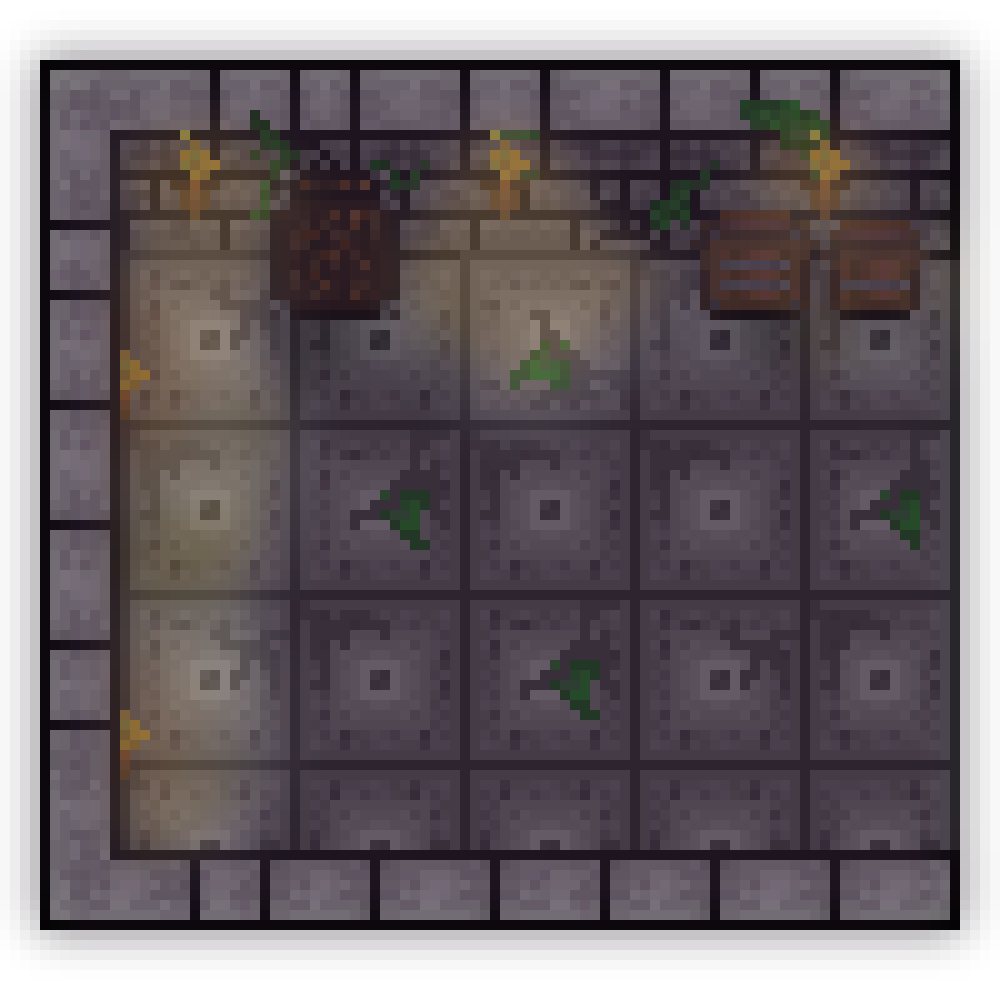
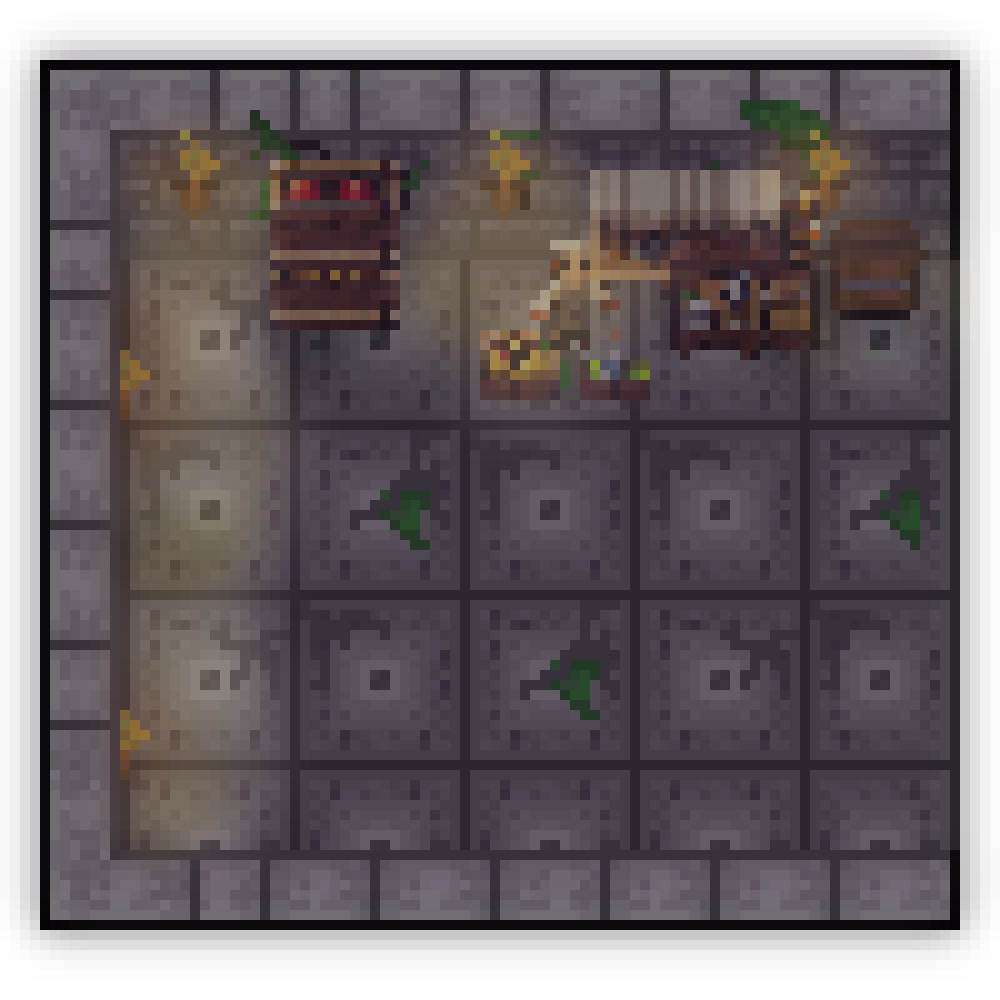
add third map

Changed region(s): [[0.031, 0.062, 0.961, 0.93], [0.93, 0.248, 0.961, 0.279], [0.744, 0.062, 0.775, 0.093]]

diff --git a/Visual/Maps/LicthRoom.cs b/Visual/Maps/LicthRoom.cs
@@ -2,14 +2,13 @@ using System.Collections.Generic;
 using System.Drawing;
 using System.Windows.Forms;
 
-public class FelixRoom : Map
-{
-    public override Boss Boss { get; set; } = new FelixTheToad(960, 540);
+public class LitchRoom : Map {
+    //  public override Boss Boss { get; set; } = new FelixTheToad(960, 540);
     public override List<GameObject> GameObjects { get; set; } = new();
 
-    public FelixRoom(PictureBox pb)
+    public LitchRoom(PictureBox pb)
     {
-        this.image = Resources.Maps[2];
+        this.image = Resources.Maps[6];
         this.PlayerSpawn = new PointF(
             Screen.PrimaryScreen.Bounds.Width / 2,
             0.9f * Screen.PrimaryScreen.Bounds.Height
@@ -17,33 +16,25 @@ public class FelixRoom : Map
         InitializeMapObjects(pb);
     }
 
-    public override void InitializeMapObjects(PictureBox pb)
+     public override void InitializeMapObjects(PictureBox pb)
     {
         float width = this.image.Width;
         float height = this.image.Height;
         float x = Screen.PrimaryScreen.Bounds.Width / 2;
         float y = Screen.PrimaryScreen.Bounds.Height / 2;
 
-        var w1 = new Wall("Direita", x + 0.965f * width / 2, y, 50, height);
-        var w2 = new Wall("Esquerda", x - 0.965f * width / 2, y, 50, height);
-        var w3 = new Wall("CimaEsquerda", x - 0.568f * width, y - 0.45f * height / 2, width, 50);
-        var w4 = new Wall("CimaDireita", x + 0.568f * width, y - 0.45f * height / 2, width, 50);
-        var w5 = new Wall("Portao", x, y - 447.5f, width, 50);
-        var w6 = new Wall("ParedeEsquedaPortao", 0.865f * x, y - 0.55f * height / 2, 50, 190);
-        var w7 = new Wall("ParedeDireitaPortao", 1.135f * x, y - 0.55f * height / 2, 50, 190);
+        var w1 = new Wall("Direita", x + 0.960f * width / 2, y, 50, height);
+        var w2 = new Wall("Esquerda", x - 0.960f * width / 2, y, 50, height);
+        var w3 = new Wall("CimaEsquerda", x - 0.568f * width, y - 0.55f * height / 2, width, 50);
+      
         var w8 = new Wall("LavaEsquerda", x - 0.87f * width / 2, y - 0.375f * height / 2, 110, 90);
         var w9 = new Wall("LavaDireita", x + 0.87f * width / 2, y - 0.375f * height / 2, 110, 90);
 
         this.GameObjects.Add(w1);
         this.GameObjects.Add(w2);
         this.GameObjects.Add(w3);
-        this.GameObjects.Add(w4);
-        this.GameObjects.Add(w5);
-        this.GameObjects.Add(w6);
-        this.GameObjects.Add(w7);
         this.GameObjects.Add(w8);
         this.GameObjects.Add(w9);
-        this.GameObjects.Add(Boss);
         this.GameObjects.Add(new Coin("Moeda", 900, 700));
     }
 
@@ -52,8 +43,13 @@ public class FelixRoom : Map
         g.DrawImage(
             this.image,
             (pb.Width / 2) - this.image.Width / 2,
-            (pb.Height / 2) - this.image.Height / 2.65f
+            (pb.Height / 2) - this.image.Height / 2
         );
+
+        foreach (var wall in GameObjects)
+        {
+            g.DrawRectangle(Pens.White, wall.Hitbox);
+
+        }
     }
 }
-

diff --git a/Visual/Maps/FirstRoom.cs b/Visual/Maps/FirstRoom.cs
@@ -27,10 +27,10 @@ public class FirstRoom : Map
         var w2 = new Wall("Baixo", x, y + 0.8f * height / 2, width, 100); // parede de baixo
         var w3 = new Wall("Esquerda", x - 0.86f * width / 2, y, 100, height); // parede da esquerda
         var w4 = new Wall("Cima", x, y - 0.65f * height / 2, width, 100); // parede de cima
-        var w5 = new Wall("Barril", x - 0.66f * width / 4, y - 0.49f * height / 2, 129, 90); // barril
-        var v1 = new Wall("BarrilV", x - 0.66f * width / 4, y - 0.45f * height / 2, 90, 90); // barril V ( de pra cima tlgd )
+        var w5 = new Wall("Barril", x - 0.66f * width / 4, y - 0.52f * height / 2, 129, 40); // barril
+        var v1 = new Wall("BarrilV", x + 0.20f * width / 2, y - 0.42f * height / 2, 129, 90); // barril V ( de pra cima tlgd )
         var w6 = new Wall("BarriSS", x + 0.623f * width / 2, y - 0.47f * height / 2, 220, 90); // barriSS
-        var v2 = new Wall("BarriSS V1", x + 0.51f * width / 2, y - 0.45f * height / 2, 90, 90); // barriSS V1 ( de pra baixo tlgd )
+        var v2 = new Wall("BarriSS V1", x + 0.05f * width / 2, y - 0.36f * height / 2, 100, 50); // barriSS V1 ( de pra baixo tlgd )
         var v3 = new Wall("BarriSS V2", x + 0.75f * width / 2, y - 0.45f * height / 2, 70, 90); // barriSS
 
         var i1 = new NextMapInteractable("Indo Ali", 
@@ -38,8 +38,7 @@ public class FirstRoom : Map
             75, 75);
 
         var i2 = new Market("Coé", 
-        PlayerSpawn.X + 100, PlayerSpawn.Y,
-            100, 100);
+        x + 0.32f * width / 2, y - 0.20f * height / 2, 200, 90);
 
         // var market = new Market("Maercadin kkk", 700, 700);
 
@@ -69,5 +68,11 @@ public class FirstRoom : Map
             // if (item is Interactable pog)
                 // g.DrawRectangle(Pens.Gold, item.Hitbox);
         }
+
+        // foreach (var wall in GameObjects)
+        // {
+        //     g.DrawRectangle(Pens.White, wall.Hitbox);
+
+        // }
     }
 }

diff --git a/State/States.cs b/State/States.cs
@@ -218,13 +218,15 @@ public class PlatformState : State
     {
         var random = Random.Shared.Next(0, 2);
         platform = new("Platform", spawns[random].X, spawns[random].Y, 290, 260);
-        if (GameEngine.Current.Player.X > Screen.PrimaryScreen.Bounds.Width/2)
+        if (GameEngine.Current.Player.X > Screen.PrimaryScreen.Bounds.Width / 2)
             platform = new("Platform", spawns[random + 2].X, spawns[random + 2].Y, 290, 260);
         this.durationTime = lifetime + platform.damageInitiationDelay;
     }
 
     public override void Act(Boss boss)
     {
+        int contador = 2;
+
         if (!isActivated)
         {
             creationTime = DateTime.Now;
@@ -242,7 +244,23 @@ public class PlatformState : State
             var random = Random.Shared.Next(0, 2);
             platform = new("Platform", spawns[random].X, spawns[random].Y, 290, 260);
             if (GameEngine.Current.Player.X > Screen.PrimaryScreen.Bounds.Width / 2)
-                
+                platform = new("Platform", spawns[random + 2].X, spawns[random + 2].Y, 290, 260);
+
+            if (random == 0)
+                MapManager.Current.SetBackground(Resources.Maps[2]);
+
+
+            if (random == 1 + contador)
+                MapManager.Current.SetBackground(Resources.Maps[3]);
+
+            if (random == 0 + contador)
+                MapManager.Current.SetBackground(Resources.Maps[4]);
+
+
+            if (random == 1)
+                MapManager.Current.SetBackground(Resources.Maps[5]);
+
+
             GoToNext();
             return;
         }

diff --git a/Resources/Resources.cs b/Resources/Resources.cs
@@ -29,11 +29,16 @@ public static class Resources
             .GetFiles("../../../assets/Sprites/Market/", "*.png")
             .Select(file => Bitmap.FromFile(file) as Bitmap)
             .ToList();
+        Cards = Directory  
+            .GetFiles("../../../assets/Sprites/Card/", "*.png")
+            .Select(file => Bitmap.FromFile(file) as Bitmap)
+            .ToList();
 
     }
 
     public static List<Bitmap> PlayerSprites = new();
     public static List<Bitmap> Maps = new();
+    public static List<Bitmap> Cards = new();
     public static List<Bitmap> Coins = new();
     public static List<Bitmap> Market = new();
 }

diff --git a/Visual/MapManger.cs b/Visual/MapManger.cs
@@ -41,6 +41,14 @@ public static class MapManager
         transitioning = true;
     }
 
+    // public static void SetStateCrrMap()
+    // {
+    //     if ()
+    //     {
+            
+    //     }
+    // }
+
     public static void RenderMapOrFade(Graphics g, PictureBox pb)
     {
         if (!transitioning)
@@ -97,8 +105,9 @@ public static class MapManager
     {
         InitializeMapList();
 
-        // AddMap(new FirstRoom(pb));
+        AddMap(new FirstRoom(pb));
         AddMap(new FelixRoom(pb));
+        AddMap(new LitchRoom(pb));
 
         Current = Maps[0];
         setPlayerSpawn();

diff --git a/GameObjects/Coin.cs b/GameObjects/Coin.cs
@@ -30,7 +30,12 @@ public class Coin : GameObject, IMoveable
     public override void Update()
     {
         Move();
+        VerifyCollisions();
+      
+    }
 
+    public bool VerifyCollisions()
+    {
         var collided = CollisionManager.GetCollisions(this);
         foreach (var other in collided)
         {
@@ -38,8 +43,10 @@ public class Coin : GameObject, IMoveable
             {
                 player.ColectItem();
                 CollisionManager.RemoveGameObject(this);
+                return true;
             }
         }
+        return false;
     }
 
     public void Move()

diff --git a/Visual/Map.cs b/Visual/Map.cs
@@ -8,6 +8,8 @@ public abstract class Map
     public PointF PlayerSpawn { get; set; }
     public virtual Boss Boss { get; set; } = null;
     public abstract List<GameObject> GameObjects { get; set; }
+    public virtual void SetBackground(Image img) {this.image = img;}
+    public virtual void SetBackground(Bitmap img) {this.image = img;}
     protected Image image = null;
     public abstract void InitializeMapObjects(PictureBox pb);
     public abstract void RenderBackground(Graphics g, PictureBox pb);

diff --git a/GameObjects/Player.cs b/GameObjects/Player.cs
@@ -312,7 +312,15 @@ public class Player : GameObject, IMoveable, IAttackable
 
     public void ColectItem()
     {
-        if (isInteractable)
-            this.CoinWallet++;
+        var collided = CollisionManager.GetCollisions(this);
+        foreach (var other in collided)
+        {
+            if (other is Coin coin)
+            {   
+                if(coin.VerifyCollisions())
+                    this.CoinWallet++;
+                return;
+            }
+    }
     }
 }

diff --git a/Visual/Maps/Tests/Test_Dungeon02.cs b/Visual/Maps/Tests/Test_Dungeon02.cs
@@ -15,7 +15,7 @@ public class Test_Dungeon_02 : Map
 
     public Test_Dungeon_02(PictureBox pb)
     {
-        this.image = Resources.Maps[1];
+        this.image = Resources.Maps[2];
         this.PlayerSpawn = new PointF(
             Screen.PrimaryScreen.Bounds.Width / 2,
             0.9f * Screen.PrimaryScreen.Bounds.Height

diff --git a/GameObjects/Interectables/Market.cs b/GameObjects/Interectables/Market.cs
@@ -19,7 +19,7 @@ public class Market : Interactable
     }
     public override void Render(Graphics g, PictureBox pb)
     {
-        g.FillRectangle(Brushes.Gold, this.Hitbox);
+        g.FillRectangle(Brushes.Transparent, this.Hitbox);
         if (this.isVisible)
             showCurrentMarket();
     }

diff --git a/GameObjects/Platform.cs b/GameObjects/Platform.cs
@@ -38,6 +38,7 @@ public class Platform : GameObject
             if (millis > damageInitiationDelay)
                 player.ReceiveDamage();
         }
+
     }
 
     public override void Render(Graphics g, PictureBox pb)
